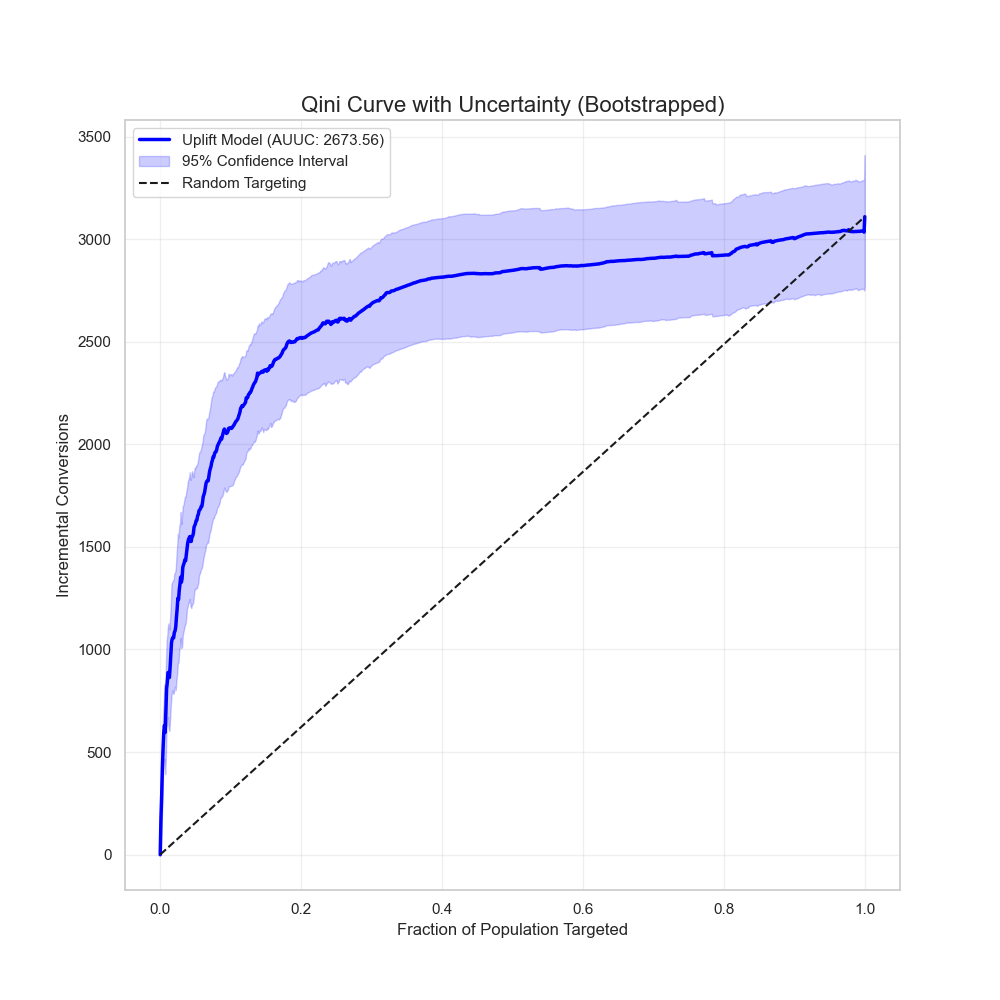
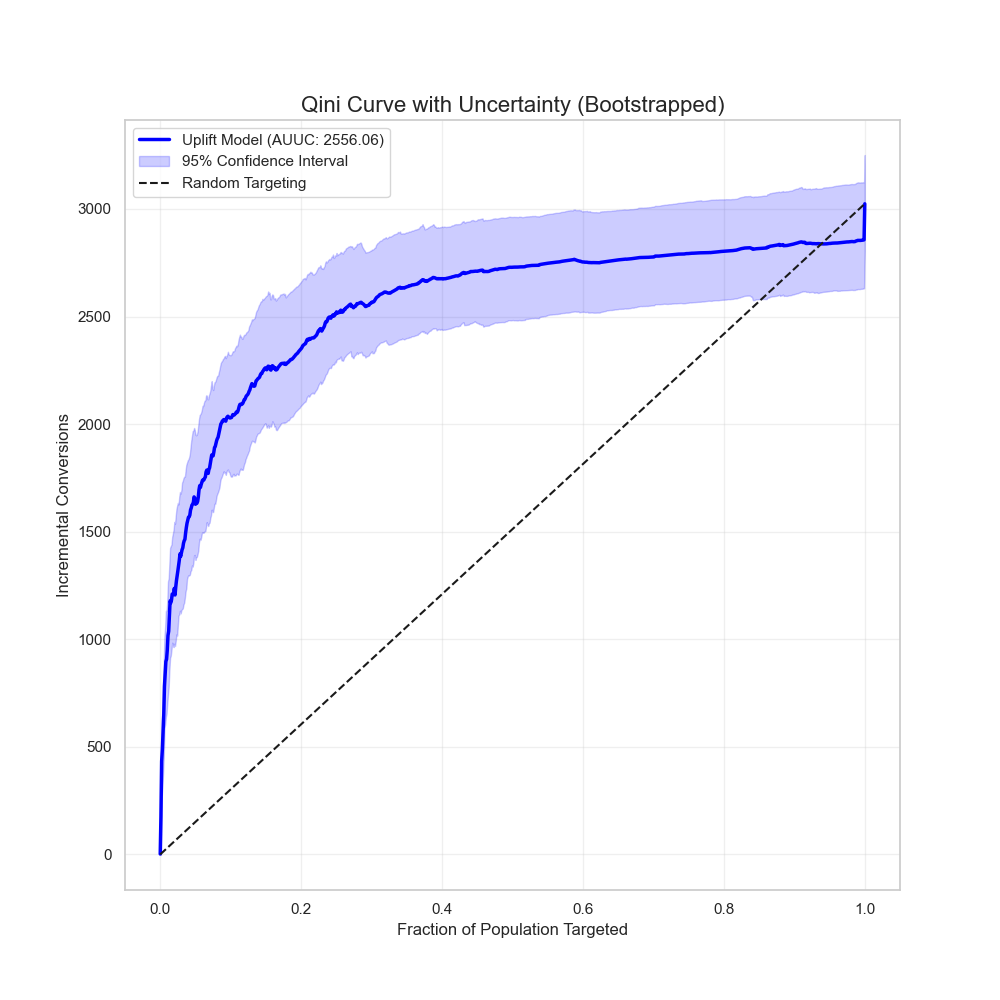
results fix

diff --git a/get_bandit_conv.py b/get_bandit_conv.py
@@ -1,0 +1,27 @@
+import polars as pl
+import numpy as np
+from src.components.bandit import BanditSimulator, LinUCBAgent
+
+df = pl.read_parquet('data/criteo_uplift.parquet')
+sim = BanditSimulator(df, [f'f{i}' for i in range(12)], 'conversion', 'treatment')
+stream = sim.df.sample(n=100000, shuffle=True, seed=42)
+X = stream.select(sim.feature_cols).to_numpy()
+convs = stream[sim.reward_col].to_numpy().reshape(-1)
+treats = stream[sim.treatment_col].to_numpy().reshape(-1)
+agent = LinUCBAgent(n_features=12)
+
+aligns = 0
+conv_aligns = 0
+for i in range(len(X)):
+    a = agent.select_arm(X[i])
+    if a == treats[i]:
+        realized_profit = (convs[i] * 10) - 0.1 if a == 1 else (convs[i] * 10)
+        agent.update(a, X[i], realized_profit)
+        if a == 1:
+            aligns += 1
+            conv_aligns += convs[i]
+
+if aligns > 0:
+    print(f'Bandit Conversion Rate (Arm 1): {conv_aligns/aligns*100:.4f}%')
+else:
+    print('No arm 1 matches')

diff --git a/README.md b/README.md
@@ -92,7 +92,7 @@ Bridged the gap between heavy causal modeling and Real-Time Bidding (RTB) latenc
 
 | Metric                  | Fixed A/B Strategy | Causal Bandit Strategy | Impact            |
 |-------------------------|-----------------|----------------------|-----------------|
-| Conversion Rate          | 0.30%           | 0.65%                | **+116%**       |
+| Conversion Rate          | 0.31%           | 1.90%                | **+512%**       |
 | Lift                     | +59.4%          | +350% (Top Decile)   | **6x Precision**|
 | Net Profit / User        | -$0.05 (Loss)   | +$0.09 (Profit)      | **Turnaround**  |
 | Inference Latency        | N/A             | < 1ms                  | **RTB Ready**   |
